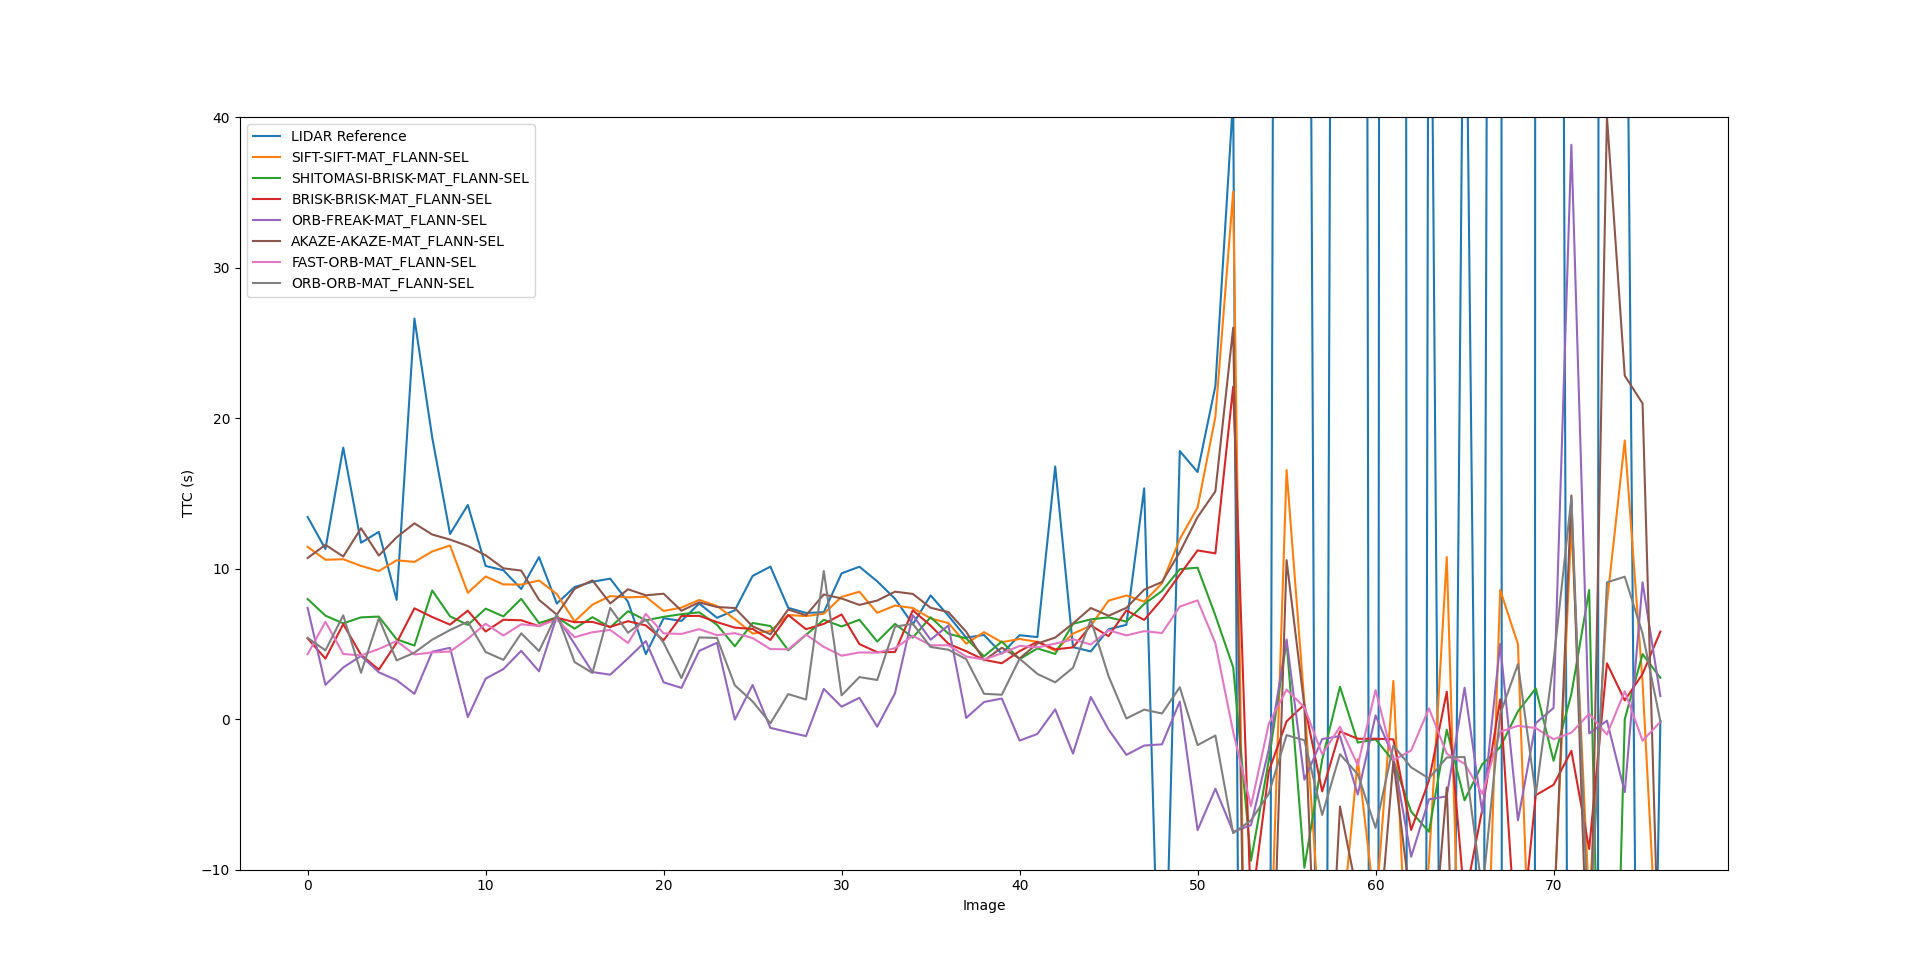
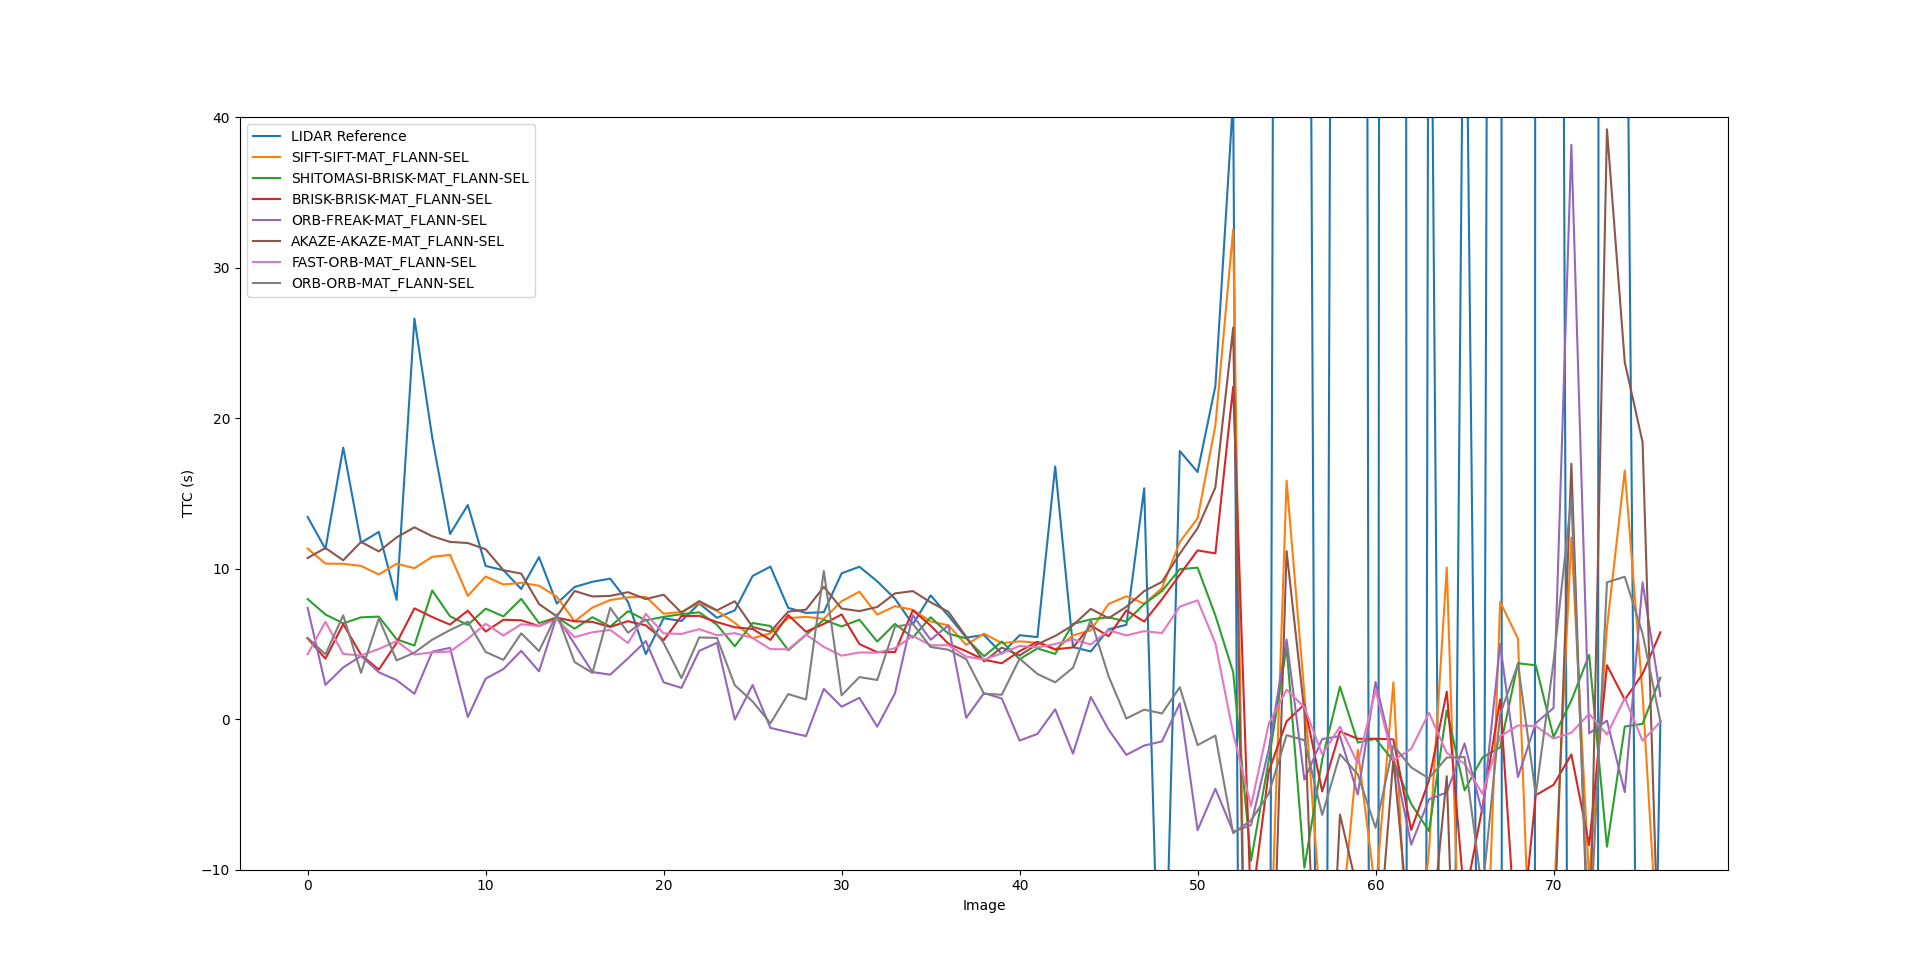
Updated the camera keypoint clustering to use Euclidian Distance and recalculated the plots.

diff --git a/src/FinalProject_Camera.cpp b/src/FinalProject_Camera.cpp
@@ -75,8 +75,8 @@ int main(int argc, const char *argv[])
     bool bVis = false;            // visualize results
 
 
-    string detectorType = "ORB"; //"SHITOMASI", "HARRIS", "FAST", "BRISK", "ORB", "AKAZE", "SIFT"
-    string descriptorType = "ORB"; // BRISK, BRIEF, ORB, FREAK, AKAZE, SIFT
+    string detectorType = "SIFT"; //"SHITOMASI", "HARRIS", "FAST", "BRISK", "ORB", "AKAZE", "SIFT"
+    string descriptorType = "SIFT"; // BRISK, BRIEF, ORB, FREAK, AKAZE, SIFT
     string matcherType = "MAT_FLANN";        // MAT_BF, MAT_FLANN
     string selectorType = "SEL_KNN";       // SEL_NN, SEL_KNN
     std::string out_file_name = detectorType + "-" + descriptorType + "-" + matcherType + "-" + selectorType + ".txt";
@@ -288,7 +288,7 @@ int main(int argc, const char *argv[])
                     std::cout << ttcLidar << ", " << ttcCamera << std::endl;
                     out_file << ttcLidar << ", " << ttcCamera << std::endl;
 
-                    bVis = true;
+                    bVis = false;
                     if (bVis)
                     {
                         cv::Mat visImg = (dataBuffer.end() - 1)->cameraImg.clone();
